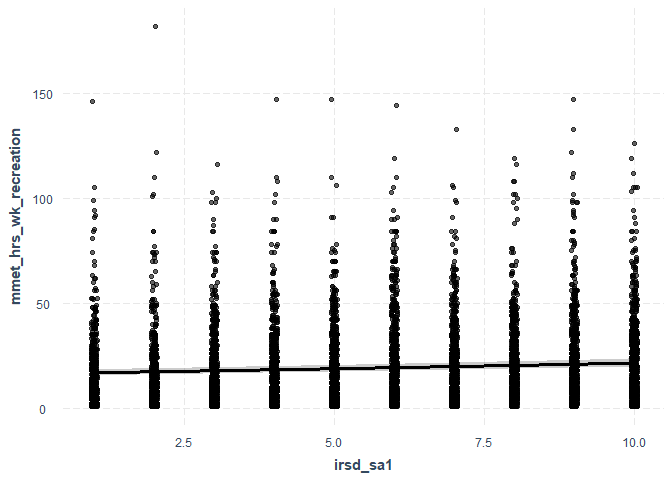
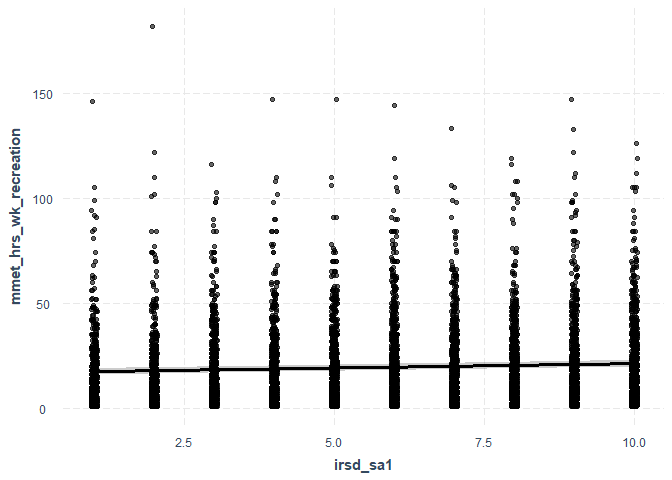
updated approach using linear model instead of negative binomial for greater comparability with manchetser approach and coefficients in sportPAmodel.csv

diff --git a/jibe-melbourne-physical-activity/jibe-melbourne-physical-activity.md b/jibe-melbourne-physical-activity/jibe-melbourne-physical-activity.md
@@ -914,49 +914,44 @@ summ(m.mMETs_recreational$zeroModel, confint = TRUE, digits = 3)
 
 ``` r
 # Negative binomial model for amount of mMET hours/week physical activity
-m.mMETs_recreational$neg_binom_over0 <- glm.nb(
+m.mMETs_recreational$linear <- lm(
     mmet_hrs_wk_recreation ~ female + age_group + is_employed + student_status + irsd_sa1,
     data = pa_data_over0
 )
 
-summ(m.mMETs_recreational$neg_binom_over0, confint = TRUE, digits = 3)
+summ(m.mMETs_recreational$linear, confint = TRUE, digits = 3)
 ```
 
-|                    |                          |
-|:-------------------|-------------------------:|
-| Observations       |                    10358 |
-| Dependent variable |   mmet_hrs_wk_recreation |
-| Type               | Generalized linear model |
-| Family             | Negative Binomial(1.224) |
-| Link               |                      log |
+|                    |                        |
+|:-------------------|-----------------------:|
+| Observations       |                  10358 |
+| Dependent variable | mmet_hrs_wk_recreation |
+| Type               |  OLS linear regression |
 
  
 
-|                         |           |
-|:------------------------|----------:|
-| χ²(10347)               |   448.488 |
-| p                       |     0.000 |
-| Pseudo-R² (Cragg-Uhler) |     0.042 |
-| Pseudo-R² (McFadden)    |     0.006 |
-| AIC                     | 78062.223 |
-| BIC                     | 78149.169 |
+|             |        |
+|:------------|-------:|
+| F(10,10347) | 34.909 |
+| R²          |  0.033 |
+| Adj. R²     |  0.032 |
 
  
 
-|                           |   Est. |   2.5% |  97.5% |  z val. |     p |
+|                           |   Est. |   2.5% |  97.5% |  t val. |     p |
 |:--------------------------|-------:|-------:|-------:|--------:|------:|
-| (Intercept)               |  2.798 |  2.710 |  2.886 |  62.603 | 0.000 |
-| femaleTRUE                | -0.238 | -0.275 | -0.202 | -12.815 | 0.000 |
-| age_groupage_group_25_34  | -0.050 | -0.129 |  0.028 |  -1.253 | 0.210 |
-| age_groupage_group_35_44  | -0.173 | -0.252 | -0.093 |  -4.272 | 0.000 |
-| age_groupage_group_45_54  | -0.157 | -0.238 | -0.077 |  -3.832 | 0.000 |
-| age_groupage_group_55_64  | -0.161 | -0.243 | -0.078 |  -3.827 | 0.000 |
-| age_groupage_group_65_74  | -0.180 | -0.268 | -0.091 |  -3.960 | 0.000 |
-| age_groupage_group_over75 | -0.452 | -0.554 | -0.349 |  -8.624 | 0.000 |
-| is_employedTRUE           |  0.109 |  0.061 |  0.156 |   4.434 | 0.000 |
-| student_statusTRUE        |  0.012 | -0.050 |  0.074 |   0.368 | 0.713 |
-| irsd_sa1                  |  0.027 |  0.020 |  0.033 |   8.004 | 0.000 |
-|  Standard errors: MLE     |        |        |        |         |       |
+| (Intercept)               | 16.984 | 15.426 | 18.541 |  21.372 | 0.000 |
+| femaleTRUE                | -3.826 | -4.472 | -3.180 | -11.606 | 0.000 |
+| age_groupage_group_25_34  | -1.104 | -2.504 |  0.297 |  -1.544 | 0.123 |
+| age_groupage_group_35_44  | -2.932 | -4.342 | -1.522 |  -4.077 | 0.000 |
+| age_groupage_group_45_54  | -2.777 | -4.209 | -1.346 |  -3.803 | 0.000 |
+| age_groupage_group_55_64  | -2.940 | -4.404 | -1.477 |  -3.938 | 0.000 |
+| age_groupage_group_65_74  | -3.093 | -4.673 | -1.513 |  -3.837 | 0.000 |
+| age_groupage_group_over75 | -6.474 | -8.286 | -4.663 |  -7.006 | 0.000 |
+| is_employedTRUE           |  1.640 |  0.791 |  2.490 |   3.785 | 0.000 |
+| student_statusTRUE        |  0.336 | -0.770 |  1.441 |   0.595 | 0.552 |
+| irsd_sa1                  |  0.422 |  0.305 |  0.539 |   7.097 | 0.000 |
+|  Standard errors: OLS     |        |        |        |         |       |
 
 The hurdle model results indicate that the likelihood of reporting zero
 recreational physical activity (logistic regression) increases
@@ -964,12 +959,12 @@ significantly with age, particularly for individuals aged 35 and older,
 with the strongest effect observed in the 75+ age group. Employment and
 student status are associated with lower odds of reporting zero
 activity, while higher socio-economic status (measured by IRSD) also
-reduces the likelihood of zero activity. According to the negative
-binomial model for those reporting non-zero activity, the amount of
-recreational physical activity decreases with age, with the largest
-reduction observed in the 75+ age group. Women engage in significantly
-less activity than men, while employment is associated with slightly
-higher activity levels. Socio-economic status has a small but positive
+reduces the likelihood of zero activity. According to the linear model
+for those reporting non-zero activity, the amount of recreational
+physical activity decreases with age, with the largest reduction
+observed in the 75+ age group. Women engage in significantly less
+activity than men, while employment is associated with slightly higher
+activity levels. Socio-economic status has a small but positive
 association with the amount of activity, while clear evidence was not
 identified for an association between student status and recreational
 activity levels.
@@ -977,22 +972,22 @@ activity levels.
 ``` r
 # Extract coefficients from the negative binomial model
 sportPAmodel <- data.frame(
-  Zero_Model = m.mMETs_recreational$zeroModel$coefficients,
-  Neg_Binom_Model = m.mMETs_recreational$neg_binom_over0$coefficients
+  zero = m.mMETs_recreational$zeroModel$coefficients,
+  linear = m.mMETs_recreational$linear$coefficients
 )
 print(sportPAmodel)
-##                             Zero_Model Neg_Binom_Model
-## (Intercept)                0.044666911      2.79802821
-## femaleTRUE                -0.004902267     -0.23810983
-## age_groupage_group_25_34   0.053567493     -0.05021519
-## age_groupage_group_35_44   0.205214777     -0.17257809
-## age_groupage_group_45_54   0.283538562     -0.15718689
-## age_groupage_group_55_64   0.330456455     -0.16057669
-## age_groupage_group_65_74   0.225089953     -0.17960424
-## age_groupage_group_over75  0.772364276     -0.45155329
-## is_employedTRUE           -0.272948987      0.10850383
-## student_statusTRUE        -0.349519395      0.01167917
-## irsd_sa1                  -0.125746061      0.02685566
+##                                   zero     linear
+## (Intercept)                0.044666911 16.9835799
+## femaleTRUE                -0.004902267 -3.8258630
+## age_groupage_group_25_34   0.053567493 -1.1035224
+## age_groupage_group_35_44   0.205214777 -2.9319653
+## age_groupage_group_45_54   0.283538562 -2.7773944
+## age_groupage_group_55_64   0.330456455 -2.9403979
+## age_groupage_group_65_74   0.225089953 -3.0932776
+## age_groupage_group_over75  0.772364276 -6.4743742
+## is_employedTRUE           -0.272948987  1.6403829
+## student_statusTRUE        -0.349519395  0.3355277
+## irsd_sa1                  -0.125746061  0.4220022
 
 
 output_file <- "../../input/health/sportPAmodel_raw_hurdle_model.csv"
@@ -1024,7 +1019,7 @@ Predictions of amount of physical activity.
 
 ``` r
 nonzero_predictions <- predict(
-    m.mMETs_recreational$neg_binom_over0, 
+    m.mMETs_recreational$linear, 
     type = "response", 
     newdata = pa_data)
 combined_predictions <- ifelse(predicted_probabilities > 0.5, 0, nonzero_predictions)
@@ -1053,7 +1048,7 @@ hours/week:
 
 ``` r
 effect_plot(
-    m.mMETs_recreational$neg_binom_over0, pred = age_group, interval = TRUE, plot.points = TRUE, 
+    m.mMETs_recreational$linear, pred = age_group, interval = TRUE, plot.points = TRUE, 
             jitter = 0.05)
 ```
 
@@ -1061,7 +1056,7 @@ effect_plot(
 
 ``` r
 effect_plot(
-    m.mMETs_recreational$neg_binom_over0, pred = female, interval = TRUE, plot.points = TRUE, 
+    m.mMETs_recreational$linear, pred = female, interval = TRUE, plot.points = TRUE, 
             jitter = 0.05)
 ```
 
@@ -1070,7 +1065,7 @@ effect_plot(
 ``` r
             
 effect_plot(
-    m.mMETs_recreational$neg_binom_over0, pred = is_employed, interval = TRUE, plot.points = TRUE, 
+    m.mMETs_recreational$linear, pred = is_employed, interval = TRUE, plot.points = TRUE, 
             jitter = 0.05)
 ```
 
@@ -1079,7 +1074,7 @@ effect_plot(
 ``` r
             
 effect_plot(
-    m.mMETs_recreational$neg_binom_over0, pred = student_status, interval = TRUE, plot.points = TRUE, 
+    m.mMETs_recreational$linear, pred = student_status, interval = TRUE, plot.points = TRUE, 
             jitter = 0.05)
 ```
 
@@ -1088,7 +1083,7 @@ effect_plot(
 ``` r
             
 effect_plot(
-    m.mMETs_recreational$neg_binom_over0, pred = irsd_sa1, interval = TRUE, plot.points = TRUE, 
+    m.mMETs_recreational$linear, pred = irsd_sa1, interval = TRUE, plot.points = TRUE, 
             jitter = 0.05)
 ```
 
@@ -1115,7 +1110,7 @@ mmets_prediction=MonteCarlo(m.mMETs_recreational$zeroModel,data)
 table(mmets_prediction$zeroPrediction)
 ## 
 ##   FALSE    TRUE 
-## 2013919 1179894
+## 2015391 1178422
 ```
 
 #### Prediction of amount of recreational physical activity
@@ -1125,7 +1120,7 @@ setDT(mmets_prediction)
 
 mmets_prediction[, mMETs_recreational := ifelse(
   zeroPrediction == FALSE,
-  predict(m.mMETs_recreational$neg_binom_over0, .SD, type = "response"),
+  predict(m.mMETs_recreational$linear, .SD, type = "response"),
   0
 )]
 ```
@@ -1136,7 +1131,7 @@ mmets_prediction[, mMETs_recreational := ifelse(
 synpop[mmets_prediction,on='AgentId',mMETs_recreational := i.mMETs_recreational]
 summary(synpop$mMETs_recreational)
 ##    Min. 1st Qu.  Median    Mean 3rd Qu.    Max.    NA's 
-##     0.0     0.0    13.3     9.7    16.1    21.7  980243
+##     0.0     0.0    13.2     9.8    16.4    21.5  980243
 ggplot(synpop)+stat_ecdf(aes(x=mMETs_recreational))
 ```
 
@@ -1249,9 +1244,9 @@ knitr::kable(
 | NHS (recreation) | Men | 7575 | 11.47 | 17.20 | 0 | 0.00 | 4.00 | 16.00 | 147.00 |
 | NHS (recreation) | Women | 8784 | 8.82 | 13.72 | 0 | 0.00 | 4.00 | 12.00 | 182.00 |
 | NHS (recreation) | Overall | 16359 | 10.05 | 15.49 | 0 | 0.00 | 4.00 | 14.00 | 182.00 |
-| Synthetic population (recreation) | Men | 1542991 | 10.92 | 8.51 | 0 | 0.00 | 15.80 | 17.85 | 21.72 |
-| Synthetic population (recreation) | Women | 1650822 | 8.57 | 6.68 | 0 | 0.00 | 12.45 | 14.03 | 17.12 |
-| Synthetic population (recreation) | Overall | 3193813 | 9.70 | 7.71 | 0 | 0.00 | 13.29 | 16.09 | 21.72 |
+| Synthetic population (recreation) | Men | 1542991 | 11.06 | 8.58 | 0 | 0.00 | 16.16 | 17.99 | 21.54 |
+| Synthetic population (recreation) | Women | 1650822 | 8.60 | 6.75 | 0 | 0.00 | 12.33 | 14.16 | 17.71 |
+| Synthetic population (recreation) | Overall | 3193813 | 9.79 | 7.79 | 0 | 0.00 | 13.23 | 16.45 | 21.54 |
 
 Marginal MET hours per week
 
@@ -1364,7 +1359,7 @@ implications on predictions.
 
 ``` r
 library(pscl) # for zero-inflated model
-m.mMETs_recreational$linear <- lm(
+m.mMETs_recreational$neg_binom_over0 <- glm.nb(
     mmet_hrs_wk_recreation ~ female + age_group + is_employed + student_status + irsd_sa1,
     data = pa_data_over0)
 
@@ -1398,8 +1393,9 @@ print(aic_values)
 ## 4 Zero-inflated negative binomial  97488.54
 ```
 
-The negative binomial hurdle model appears to be the best model, and so
-was ultimately used in the main analysis.
+While the negative binomial hurdle has the lowest AIC, the linear model
+retains direct comparability with the Manchester approach so was
+ultimately used in the main analysis.
 
 ## Save output models
 
